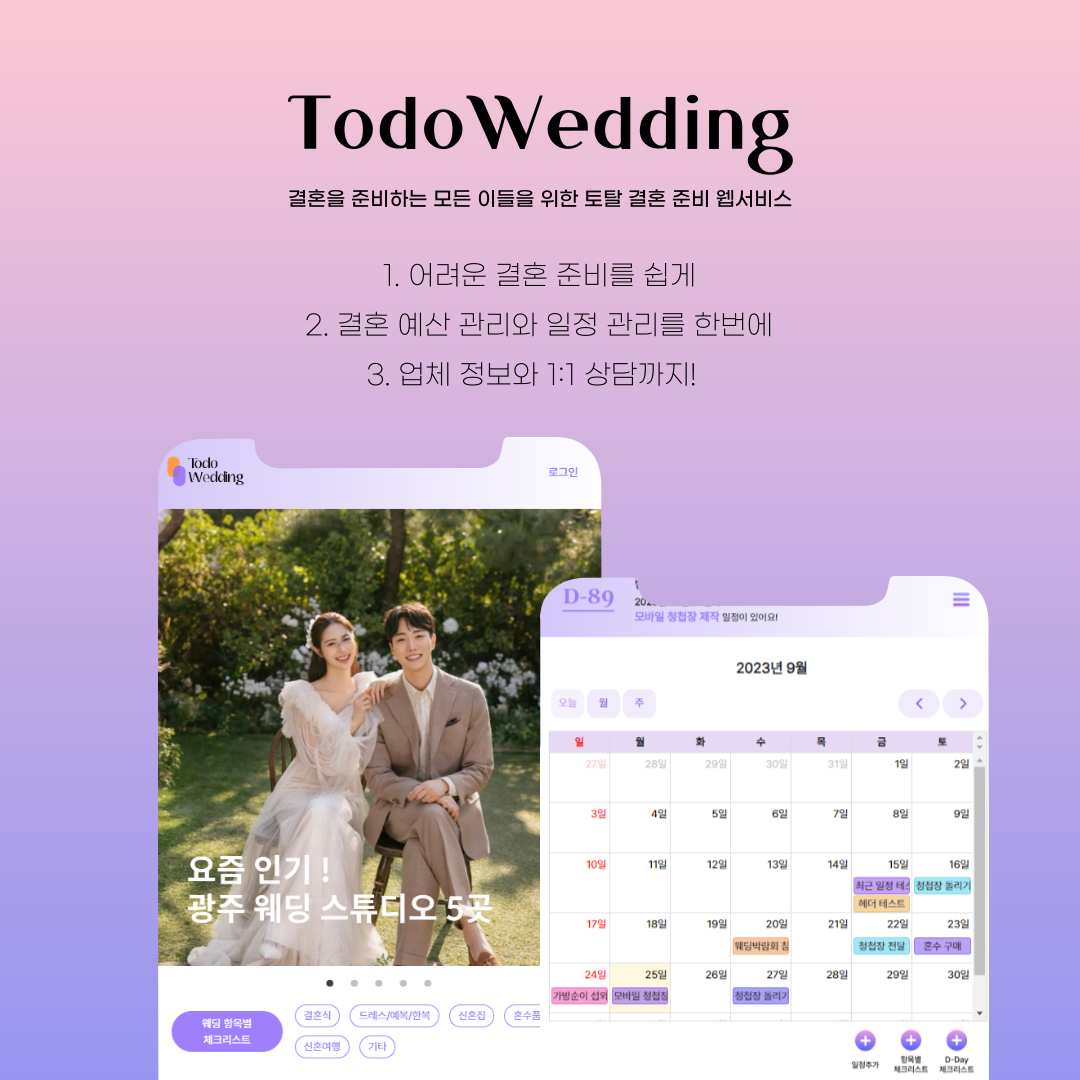
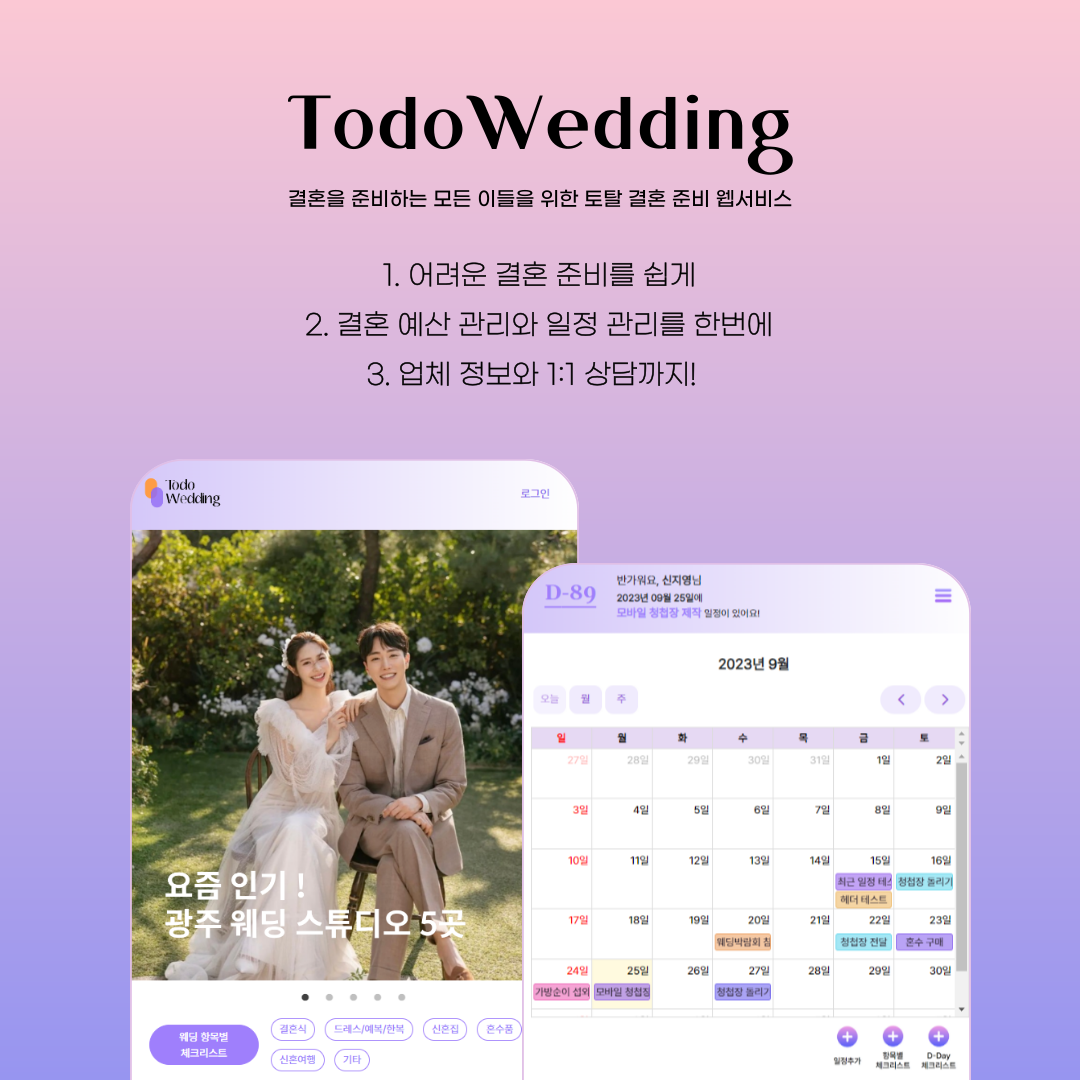
design: 메인 체크리스트 디자인 변경, web-image 사이즈 조절, React-Slider 카드뉴스 표지 수정

diff --git a/frontend/todowedding/src/assets/scss/style.scss b/frontend/todowedding/src/assets/scss/style.scss
@@ -211,7 +211,7 @@ Login 관련
     width: 100%;
     max-width: 410px;
     margin: 0 auto;
-    margin-top : 40px;
+    margin-top: 40px;
 }
 /**************************************************************************** Body
 Body 관련
@@ -366,15 +366,14 @@ BottomBar 관련
 .main-itemchecklist {
     box-sizing: border-box;
     position: relative;
-    width: 160px;
+    width: 155px;
     height: 50px;
-    border: 1px solid #9f7ffc;
     border-radius: 30px;
     padding-top: 5px;
     padding-left: 12px;
     padding-right: 12px;
-    margin: 48px 0 0 26px;
-    background-color: #9f7ffc;
+    margin: 50px 0 0 26px;
+    background-color: #aa91f3;
     font-family: "Pretendard-Regular";
     color: #ffffff;
     text-align: center;
@@ -385,15 +384,14 @@ BottomBar 관련
 .main-ddaychecklist {
     box-sizing: border-box;
     position: relative;
-    width: 160px;
+    width: 140px;
     height: 50px;
-    border: 1px solid #9f7ffc;
     border-radius: 30px;
     padding-top: 5px;
     padding-left: 14px;
     padding-right: 14px;
-    margin: 40px 0 0 26px;
-    background-color: #9f7ffc; //#a5a4dd;
+    margin: 48px 0 0 26px;
+    background-color: #aa91f3; //#a5a4dd;
     font-family: "Pretendard-Regular";
     color: #ffffff;
     text-align: center;
@@ -404,15 +402,15 @@ BottomBar 관련
 .main-itemchecklist-item {
     box-sizing: border-box;
     height: 28px;
-    border: 1px solid #9f7ffc;
     border-radius: 20px;
-    padding: 3px 10px 0 10px;
+    padding: 4px 10px 0 10px;
     margin: 10px 7px 0 5px;
     background-color: #ffffff;
     font-family: "Pretendard-Regular";
     color: #9f7ffc;
     text-align: center;
     font-size: small;
+    box-shadow: 1px 2px 5px #a1a0ca;
 }
 
 .main-itemchecklist-item:hover {
@@ -421,7 +419,7 @@ BottomBar 관련
 }
 
 //메인페이지 - 웨딩 항목별 체크리스트 Container
-.main-itemchecklist-container {
+.main-itemchecklist-container, .main-ddaychecklist-container {
     justify-content: center;
     margin: 30px 10px 0 10px;
 }
@@ -440,11 +438,6 @@ BottomBar 관련
     font-size: 1;
 }
 
-//메인페이지 - 웨딩 D-Day 체크리스트 Container
-.main-ddaychecklist-container {
-    justify-content: center;
-    margin: 23px 55px 50px 10px;
-}
 
 /**************************************************************************** Modal
 Modal 관련
@@ -781,7 +774,7 @@ FullCalendar 관련
     width: 90%;
     max-width: 560px;
     margin: 0 auto;
-    margin: 5% 10% 0 5%;
+    margin: 5% 5% 0 5%;
     background: #ffffff;
     border: 1px solid #9f7ffc;
     border-radius: 15px;
@@ -923,6 +916,43 @@ D-Day CheckList 관련
     border-radius: 20px;
     padding: 40px 50px 40px 50px;
     margin: 40px 30px 40px 20px;
+}
+
+//예산 관리 페이지 탭 디자인
+.budget-tabs {
+    margin-bottom: 0.75rem;
+    margin-top: 0.25rem;
+    font-size: 14px;
+}
+
+.budget-tabs button {
+    color: #9f7ffc;
+}
+
+.budget-tabs :focus {
+    color: black;
+}
+
+.budget-tabs :hover {
+    color: black;
+}
+
+//admin 탭
+.admin-tabs {
+    margin: 0.75rem 0.25rem;
+    font-size: 14px;
+}
+
+.admin-tabs button {
+    color: #455871;
+}
+
+.admin-tabs :focus {
+    color: black;
+}
+
+.admin-tabs :hover {
+    color: black;
 }
 
 //마커

diff --git a/frontend/todowedding/src/components/Main/Main.jsx b/frontend/todowedding/src/components/Main/Main.jsx
@@ -114,7 +114,7 @@ const Main = () => {
     //--------------------------------------------------------------------------------------
 
     return (
-        <div>
+        <div style={{height:"700px"}}>
             <div>
                 <SlickSlider />
             </div>
@@ -139,7 +139,7 @@ const Main = () => {
             </div>
             <div style={{ display: "flex" }}>
                 <p className="main-ddaychecklist">
-                    웨딩 D-Day
+                    D-Day
                     <br />
                     체크리스트
                 </p>

diff --git a/backend/TodoWedding/src/main/java/com/smhrd/todowedding/service/KakaoLoginService.java b/backend/TodoWedding/src/main/java/com/smhrd/todowedding/service/KakaoLoginService.java
@@ -54,8 +54,8 @@ public class KakaoLoginService {
 		MultiValueMap<String, String> params = new LinkedMultiValueMap<>();
 		params.add("grant_type", "authorization_code");
 		params.add("client_id", "05e6f6ac6b8cd6cf3b1ec2a9ca6542de");
-		params.add("redirect_uri", "http://172.30.1.9:3000/auth/kakao/callback");
-//		params.add("redirect_uri", "http://localhost:3000/auth/kakao/callback");
+//		params.add("redirect_uri", "http://172.30.1.9:3000/auth/kakao/callback");
+		params.add("redirect_uri", "http://localhost:3000/auth/kakao/callback");
 		params.add("code", code);
 		
 

diff --git a/backend/TodoWedding/src/main/java/com/smhrd/todowedding/service/KakaoMessageService.java b/backend/TodoWedding/src/main/java/com/smhrd/todowedding/service/KakaoMessageService.java
@@ -66,6 +66,8 @@ public class KakaoMessageService {
 
       // HttpBody 오브젝트 생성
       JSONObject linkObj = new JSONObject();
+//        linkObj.put("web_url", "http://172.30.1.9:3000");
+//        linkObj.put("mobile_web_url", "http://172.30.1.9:3000");
         linkObj.put("web_url", "http://localhost:3000");
         linkObj.put("mobile_web_url", "http://localhost:3000");
       
